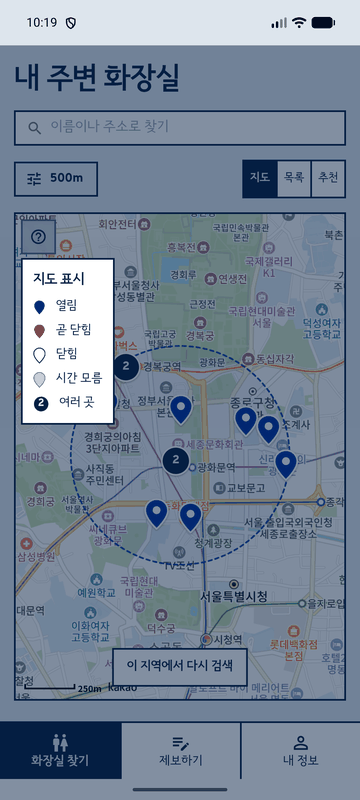
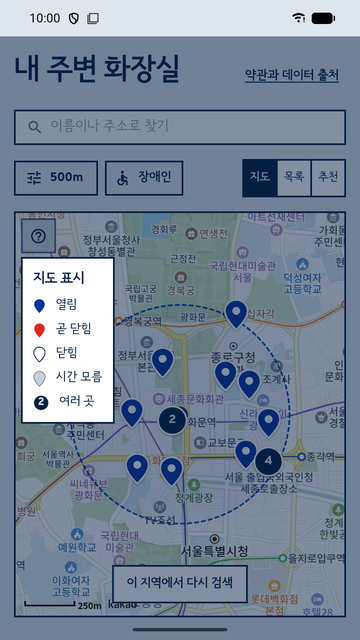
Docs: describe and screenshot the ratings-only launch build
README screenshots were from 2026-11-16 with the bottom nav, report
links and the blue server walking route, none of which the launch build
shows. Retake them on the production build (1080x1920, opening status at
10:00 KST), replace the recommended shot with the card rating, add the
terms and sources page, and say what the launch build hides and how to
turn it back on. Record the launch scope in the requirements and the
no-bottom-nav decision in the UI design doc. Add the store listing and
its screenshots (report screenshot dropped).

diff --git a/store/listing.md b/store/listing.md
@@ -1,0 +1,156 @@
+# Play 스토어 등록 정보 (2026-11-25 점검판)
+
+Play 글자 수 제한: 앱 이름 30자, 간단한 설명 80자, 자세한 설명 4,000자.
+
+2026-11-18 초안에서 코드와 운영 데이터에 맞춰 고친 것:
+- 화장실 수: "약 6만 곳" → "5만 곳이 넘는". 운영 스냅샷(`/api/toilets/snapshot`) 2026-11-25 기준 53,586곳.
+- 추천: "평점과 후기" → "평점과 거리". 출시 빌드는 회원 기능이 꺼져 있어(`VITE_ACCOUNTS` 기본 off) 댓글이 보이지 않는다.
+- 제보: 출시 빌드(Mashil-web `d2a5dcc`, 11-24)는 회원 기능과 함께 **제보 탭·정보 고치기 링크·제보 화면을 모두 숨긴다**. 설명에서 제보를 빼고, "이용자 제보로 바로잡아요"·"앱에서 알려 주세요"도 고쳤다. 제보 스크린샷은 지웠다.
+- 위치: 제보가 없으므로 위치는 기기 밖으로 나가지 않는다 (근처 찾기는 기기 안, 서버 도보 경로 꺼짐). "서버로 보내지 않아요" 문구를 그대로 쓸 수 있다.
+- 로그인: 첫 실행 로그인 화면도 이 커밋에서 없어진다. **운영 서버는 아직 11-20 버전이라 로그인 화면이 뜬다 (2026-11-25 에뮬레이터 확인). 배포 후 올린다.**
+- 방향 안내: 출시 빌드는 서버 도보 경로가 꺼져 있다(`VITE_WALK_ROUTE`). 직선 방향 안내만 적는다. README 의 파란 경로 화면은 쓰지 않는다.
+
+---
+
+## 한국어 (기본)
+
+### 앱 이름 (16자)
+마실 - 내 주변 화장실 찾기
+
+### 간단한 설명 (34자)
+지금 열려 있는 가까운 화장실을 찾아요. 전국 5만 곳 이상.
+
+### 자세한 설명
+
+급할 때, 가장 가까운 화장실이 지금 열려 있는지부터 알려 드려요.
+
+마실은 전국 공중화장실과 개방화장실 5만 곳이 넘는 곳을 지도와 목록으로 보여 주는 앱이에요. 행정안전부 공공데이터(LOCALDATA 공중화장실 정보)를 매일 받아 정리해요.
+
+■ 지금 열려 있는지 한눈에
+· 요일과 공휴일까지 따져서 "24시간", "22:00까지", "곧 닫힘", "닫힘"으로 보여 줘요.
+· 지도 핀의 모양과 색만 봐도 열림 상태를 알 수 있어요.
+· 닫기까지 남은 시간도 알려 드려요.
+
+■ 원하는 화장실만 골라서
+· 지금 열린 곳, 24시간 개방
+· 남자, 여자, 장애인, 어린이 시설
+· 검색 반경 500m부터 5km까지
+· 이름이나 주소로 검색 (두 글자부터 바로 찾아요)
+· 평점과 거리를 함께 본 "지금 가기 좋은 곳" 추천
+
+■ 가기 전에 확인하는 상세 정보
+· 요일별 개방 시간과 공휴일 개방 여부
+· 남녀 칸 수, 소변기 수, 장애인·어린이용 시설
+· 비상벨, 입구 CCTV, 기저귀 교환대
+· 주소 복사, 전화 걸기, 공유하기 (카카오톡 등)
+
+■ 가는 길
+· 앱 안에서 화장실 방향과 거리, 걷는 시간을 바로 확인
+· 카카오맵으로 도보·자동차 길찾기
+
+■ 별점으로 함께
+· 다녀온 화장실에 별점을 남겨 다른 사람에게 알려 주세요. 가입이나 로그인은 필요 없어요.
+
+■ 내 위치는 내 휴대폰 안에서만
+현재 위치는 휴대폰 안에서 가까운 화장실을 찾는 데만 쓰고, 서버로 보내거나 저장하지 않아요. 위치 권한을 허용하지 않아도 지도를 옮기거나 검색해서 쓸 수 있어요.
+
+■ 누구나 편하게
+· 한국어, English, 日本語, 简体中文, 繁體中文
+· 다크 모드, 태블릿과 가로 화면 지원
+· 화면 읽기(TalkBack) 지원
+
+화장실 정보는 공공데이터를 바탕으로 하며 실제와 다를 수 있어요. 틀린 정보를 발견하면 문의 이메일로 알려 주세요.
+
+---
+
+## English
+
+### App name (29 chars)
+Mashil: Find Restrooms Nearby
+
+### Short description (74 chars)
+Find the nearest restroom that's open now. Over 50,000 across South Korea.
+
+### Full description
+
+When you need one fast, Mashil shows the nearest restroom that's open right now.
+
+Mashil maps over 50,000 public and open-access restrooms across South Korea. The data comes from the Korean government's public restroom dataset (LOCALDATA), refreshed daily.
+
+■ Open now, at a glance
+· Opening hours by weekday and public holiday: "24 hours", "Open until 22:00", "Closing soon", "Closed".
+· Map pins show the status by shape and color.
+· See how long until it closes.
+
+■ Only the restrooms you need
+· Open now, open 24 hours
+· Men's, women's, accessible and children's facilities
+· Search radius from 500 m to 5 km
+· Search by name or address
+· "Good to go now" picks based on ratings and distance
+
+■ Check before you go
+· Opening hours for each day and holidays
+· Number of stalls and urinals, accessible and children's facilities
+· Emergency bell, entrance CCTV, diaper changing table
+· Copy the address, call, or share
+
+■ Getting there
+· See the direction, distance and walking time in the app
+· Walking or driving directions in KakaoMap
+
+■ Rate as you go
+· Leave a star rating for others. No sign-up or login needed.
+
+■ Your location stays on your phone
+Your location is only used on your phone to find nearby restrooms. It is never sent to or stored on our servers. Without location permission you can still move the map or search.
+
+■ For everyone
+· Korean, English, Japanese, Simplified and Traditional Chinese
+· Dark mode, tablet and landscape layouts
+· Screen reader (TalkBack) support
+
+Restroom information is based on public data and may differ from reality. If something is wrong, please let us know by email.
+
+---
+
+## Play 콘솔 설정
+
+| 항목 | 값 |
+|---|---|
+| 앱 카테고리 | 지도/내비게이션 (Maps & Navigation) |
+| 태그 | 지도, 생활 |
+| 연락처 이메일 | (정해 주세요. 약관의 문의 이메일과 같게) |
+| 웹사이트 | https://toilets.ironhiro.dev (선택) |
+| 개인정보처리방침 | https://toilets.ironhiro.dev/terms/Privacy |
+| 광고 포함 | 아니요 (광고 SDK가 들어가는 빌드부터 "예") |
+| 앱 액세스 권한 | 모든 기능을 로그인 없이 쓸 수 있음 (회원 기능 꺼짐) |
+| 타겟층 | 18세 이상 (아동 대상 아님. 13세 미만을 넣으면 가족 정책 심사가 붙는다) |
+
+### 콘텐츠 등급 설문
+- 출시 빌드는 댓글·제보가 꺼져 있어 이용자끼리 글을 주고받는 기능이 없다. 별점(숫자)만 있다.
+  → "사용자 간 상호작용/콘텐츠 공유": **아니요** 로 답해도 맞다. 회원·댓글을 켜는 빌드부터 "예"로 바꾼다.
+- 위치 공유(다른 사용자에게 내 위치 표시): 없음.
+
+### 데이터 보안 (Data safety) 초안
+Play 기준은 "기기 밖으로 나가면 수집"이다. 위치는 기기 밖으로 나가지 않으므로 **수집 안 함**. 회원·제보를 켜는 빌드부터 위치(제보의 "내 위치로 입력"), 사용자 생성 콘텐츠, 계정 정보를 추가한다.
+
+| 데이터 유형 | 수집 | 공유 | 선택/필수 | 목적 | 근거 |
+|---|---|---|---|---|---|
+| 앱 활동 > 앱 상호작용 | 예 | 아니요 | 선택 | 앱 기능 | 별점 |
+| 기기 또는 기타 ID | 예 | 아니요 | 선택 | 앱 기능, 사기 방지 | 별점용 무작위 기기 키(`X-Mashil-Device`, 서버에는 해시만). 광고 ID 아님 |
+| 앱 정보 및 성능 > 비정상 종료 로그, 진단 | 예 | 아니요 | 필수 | 분석(오류 해결) | Sentry. 서비스 제공업체 전송은 "공유"가 아님 |
+
+- 전송 중 암호화: 예 (HTTPS)
+- 데이터 삭제 요청 방법: 회원 기능이 꺼져 있어 계정이 없다. 별점 삭제는 문의 이메일로 받는다고 적는다.
+
+---
+
+## 출시 전 확인
+
+1. **운영 서버 배포 (완료 2026-11-26, `v2026.11.25.5`, 에뮬레이터 확인)**: 웹 `d2a5dcc`, 백엔드 `7e51af4` (둘 다 11-24). 배포 전 운영은 첫 화면이 로그인이고 별점에 로그인이 필요해 이 설명과 맞지 않는다. 배포 후 데이터 지운 앱으로 첫 화면·별점·탭 구성을 다시 확인한다.
+   - 회원·제보를 다시 켤 때는 제보의 "내 위치로 입력"이 좌표를 Kakao 와 서버로 보내므로, 처리방침·위치 정보 이용 안내(`Mashil-web/src/legal/documents.ts`)와 위치기반서비스 신고 여부를 먼저 다시 본다.
+2. **그래픽 이미지(1024×500)**: 아직 없다. 지도 화면 + 앱 이름 한 줄 구성으로 만든다.
+3. **고해상도 아이콘(512×512)**: `docs/07-ui-design.md` 앱 아이콘 사양으로 내보낸다.
+4. 스크린샷: `store/screenshots/ko/` 7장, 출시 빌드로 2026-11-26 다시 찍음 (1080×1920, 하단 탭 없음, 개방 상태는 오전 10시 기준). 순서 제안: 01 지도 → 03 상세 → 07 카드·별점 → 05 방향 안내 → 06 필터 → 02 목록 → 04 시간·시설. 첫 두 장이 "지금 열린 화장실"을 보여 줘야 설치 전환이 좋다.
+5. 연락처 이메일을 정하고 약관 문의 이메일과 맞춘다.

diff --git a/README.md b/README.md
@@ -4,19 +4,23 @@
 
 ## 주요 기능 (화장실 찾기)
 
-아래 화면은 Android 에뮬레이터에서 찍었다 (2026-11-16, 광화문 근처, 로컬 백엔드에 LOCALDATA 전국 데이터와 도보 도로망을 넣은 상태). 개방 상태는 찍은 시각 기준이다. 경로 데이터 출처: © OpenStreetMap contributors (ODbL), 서울특별시 도보 네트워크 (공공누리 1유형).
+아래 화면은 **출시 빌드**를 Android 에뮬레이터(1080×1920)에서 찍었다 (2026-11-26, 광화문 근처, 운영 데이터). 개방 상태는 오전 10시(KST) 기준이다: 밤에 찍으면 대부분 닫힘으로 나와서 촬영할 때만 페이지 시계를 10시로 고정했다.
+
+출시 빌드는 **별점만 있는 버전**이다 (Mashil-web `VITE_ACCOUNTS` off, 2026-11-24 결정). 로그인, 댓글, 제보, 내 정보 화면을 숨기고 하단 탭도 두지 않는다. 별점은 로그인 없이 기기마다 만든 무작위 키로 남긴다. 서버 도보 경로는 꺼져 있어 방향 안내는 일직선이다 (위치를 서버로 보내지 않기 위해). 숨긴 기능은 코드에 그대로 있고 `VITE_ACCOUNTS=on` 으로 다시 켠다.
 
 ### 지도와 목록
 
 | 지도 | 핀 모양 설명 | 겹친 핀 목록 |
 |:-:|:-:|:-:|
 | <img src="docs/screenshots/01-home-map.png" width="240" alt="홈 지도: 반경 원 안의 화장실 핀과 묶음 마커"> | <img src="docs/screenshots/02-legend.png" width="240" alt="지도의 ? 단추를 누르면 뜨는 핀 모양 설명"> | <img src="docs/screenshots/03-cluster-list.png" width="240" alt="묶음 마커를 누르면 뜨는 총 2곳 목록, 거리순과 추천순"> |
-| 내 위치 주변(기본 500m)의 화장실을 **핀 모양**으로 보여 준다. 글자 없이 모양과 색으로 개방 상태(열림·곧 닫힘·닫힘·모름)를 나타낸다 | 지도 왼쪽 위 반투명 **?** 단추를 누르면 핀 모양의 뜻이 뜬다 | 핀이 절반 넘게 겹치면 숫자가 적힌 **묶음 마커**가 된다. 누르면 그 화장실들을 **거리순·추천순**으로 보여 준다 |
+| 내 위치 주변(기본 500m)의 화장실을 **핀 모양**으로 보여 준다. 글자 없이 모양과 색으로 개방 상태(열림·곧 닫힘·닫힘·모름)를 나타낸다. 제목 옆에 **약관과 데이터 출처** | 지도 왼쪽 위 반투명 **?** 단추를 누르면 핀 모양의 뜻이 뜬다 | 핀이 절반 넘게 겹치면 숫자가 적힌 **묶음 마커**가 된다. 누르면 그 화장실들을 **거리순·추천순**으로 보여 준다 |
 
-| 화장실 정보 카드 | 목록 | 추천 |
+| 화장실 정보 카드 | 별점 | 목록 |
 |:-:|:-:|:-:|
-| <img src="docs/screenshots/04-card.png" width="240" alt="지도에서 고른 화장실의 정보 카드"> | <img src="docs/screenshots/05-list.png" width="240" alt="거리순 근처 안내판 목록"> | <img src="docs/screenshots/06-recommended.png" width="240" alt="지금 가기 좋은 곳 추천"> |
-| 핀을 고르면 거리, 시설, 주소, 영업시간, 전화와 함께 **카카오맵 길찾기 / 방향 안내 / 자세히 보기**가 뜬다. 오른쪽 위에 공유와 닫기 | 출발 안내판처럼 한 줄에 거리, 이름과 시설, 개방 상태 | 열린 곳 중에서 평점, 댓글이 받은 도움돼요, 거리를 함께 보고 고른 "지금 가기 좋은 곳" |
+| <img src="docs/screenshots/04-card.png" width="240" alt="지도에서 고른 화장실의 정보 카드"> | <img src="docs/screenshots/06-rating.png" width="240" alt="카드 아래 별점 다섯 개"> | <img src="docs/screenshots/05-list.png" width="240" alt="거리순 근처 안내판 목록"> |
+| 핀을 고르면 거리, 시설, 주소, 영업시간, 전화와 함께 **길찾기(카카오맵) / 방향 안내 / 자세히 보기 / 지도에 거리 표시**가 뜬다. 오른쪽 위에 공유와 닫기 | 카드 아래 **별점**. 로그인 없이 누르면 바로 "등록됨" | 출발 안내판처럼 한 줄에 거리, 이름과 시설, 개방 상태 |
+
+**추천** 보기는 열린 곳 중에서 평점과 거리를 함께 보고 "지금 가기 좋은 곳"을 고른다. 평점이 모이기 전에는 "아직 추천할 만큼 평점이 모이지 않았어요"와 가까운 순 보기 링크만 보여서 화면을 싣지 않았다.
 
 | 필터 |
 |:-:|
@@ -34,10 +38,17 @@
 
 | 걷는 중 | 도착 |
 |:-:|:-:|
-| <img src="docs/screenshots/10-guide.png" width="240" alt="방향 안내: 파란 실제 도보 경로와 지나온 길, 경로 끝에서 화장실까지 점선, 약 3분과 158m 남은 길"> | <img src="docs/screenshots/11-arrived.png" width="240" alt="방향 안내: 다 왔어요"> |
-| 서버가 찾은 **실제 도보 경로(파란 선)**와 지나온 길(회색), 경로 기준 남은 시간·거리. 서울은 서울시 도보 네트워크(횡단보도·육교 포함), 그 밖은 OpenStreetMap. 경로가 길에서 끝나면 화장실까지 점선으로 잇는다. 35m 넘게 벗어나면 다시 찾고, 경로를 못 받으면 일직선 안내로. 앱이 GPS 를 1초 간격으로 따라가고(`watchLocation` 브리지), 앱이 화면에서 내려가면 쉰다 | 20m 안에 들어오면 "다 왔어요"로 바뀌고 GPS 를 끈다. 카카오맵 길찾기(도보·차)는 늘 옆에 둔다 |
+| <img src="docs/screenshots/10-guide.png" width="240" alt="방향 안내: 내 위치에서 화장실까지 일직선 점선, 약 4분과 북서쪽 직선 거리 184m"> | <img src="docs/screenshots/11-arrived.png" width="240" alt="방향 안내: 다 왔어요, 지나온 길은 회색 선"> |
+| 내 위치에서 화장실까지 **일직선 점선**과 방위, 직선 거리, 걷는 시간 어림(직선 × 1.3, 4km/h). "실제 길은 지도를 보며 찾아 주세요" 안내. 앱이 GPS 를 1초 간격으로 따라가고(`watchLocation` 브리지), 앱이 화면에서 내려가면 쉰다. 서버 도보 경로(서울시 도보 네트워크·OpenStreetMap)는 구현돼 있지만 출시 빌드에서는 끈다 (`VITE_WALK_ROUTE`, 출발 위치를 서버로 보내야 해서) | 20m 안에 들어오면 "다 왔어요"로 바뀌고 GPS 를 끈다. 지나온 길은 회색 선. 카카오맵 길찾기(도보·차)는 늘 옆에 둔다 |
 
-이 밖에 웹에서: 이름·주소 검색, 평점과 댓글(도움돼요/아니에요, 신고), 새 화장실·정보 수정 제보, 내 정보와 설정(이름 바꾸기, 언어, 로그아웃, 회원 탈퇴), 관리자 화면.
+### 약관과 데이터 출처
+
+| 약관과 출처 |
+|:-:|
+| <img src="docs/screenshots/13-about.png" width="240" alt="약관과 출처: 이용약관, 개인정보 처리방침, 위치 정보 이용 안내, 데이터 출처"> |
+| 홈 제목 옆 링크로 연다. 이용약관·개인정보 처리방침·위치 정보 이용 안내, 데이터 출처와 글꼴. 틀린 정보는 문의 이메일로 받는다 (출시 빌드에는 제보 화면이 없다) |
+
+이 밖에: 이름·주소 검색. 관리자는 홈 제목을 7번 연달아 눌러 로그인하면 하단 탭과 관리자 화면이 나온다. 회원 기능을 켜면(`VITE_ACCOUNTS=on`) 소셜 로그인, 댓글(도움돼요/아니에요, 신고), 새 화장실·정보 수정 제보, 내 정보와 설정(이름 바꾸기, 언어, 로그아웃, 회원 탈퇴), 하단 탭(찾기·제보·내 정보)이 돌아온다.
 
 ## 문서
 

diff --git a/docs/07-ui-design.md b/docs/07-ui-design.md
@@ -98,7 +98,8 @@
 - **카드:** 지도에서 고른 장소. 맨 위 도구 줄은 "화장실 정보" + 공유·닫기(X). 그 아래 근처 안내판의 행과 같은 모양(거리, 이름과 시설, 상태)을 카드 폭 그대로 (닫기를 행 옆에 두면 상태 칸이 가운데로 밀리고 아래 선이 끊겨서 줄을 나눴다). 아래에 종류·거리·주소·영업시간·전화를 머리카락 선으로 나눈 2열 표로. 행동은 네 층: 카카오맵 길찾기(파랑, 전체 폭) / 방향 안내(테두리, 전체 폭) / 자세히 보기·지도에 거리 표시(테두리 버튼 두 칸) / 정보 고치기·없어졌어요(글자 링크).
 - **근처 안내판(board):** 출발 안내판처럼 한 행에 거리, 이름과 시설, 오른쪽 끝 상태. 앱의 다른 면과 같은 종이 위에 2px 잉크 테두리, 머리 줄만 잉크 띠. 거리는 잉크 숫자. 시그니처.
 - **칸(cells):** 테두리를 공유하는 정사각 칸. 요일 8칸, 시설 4칸.
-- **하단 탭:** 위쪽 앱 바와 왼쪽 서랍 메뉴 대신 **화장실 찾기(남녀 화장실 아이콘) / 제보하기 / 내 정보** 세 칸 (64px, 위 2px 잉크 선, 칸끼리 2px 선). 고른 칸은 잉크 채움 (파랑은 선택에 쓰지 않는다). 상세처럼 자기 하단 바가 있는 화면과 로그인·동의·약관에서는 숨긴다. 내용과 탭 사이는 어느 화면이든 24px (지도 칸도 같다). 앱은 웹뷰를 시스템 제스처 막대 밑까지 그리고(Flutter `SafeArea(bottom: false)`), 웹이 `env(safe-area-inset-bottom)` 만큼 탭 칸과 상세 하단 바를 올린다. 그래서 탭 바탕이 화면 맨 아래까지 이어진다. 내 정보에는 **회원 카드**(이름, 역할, 로그인 방법, 오른쪽에 "설정 >"; 누르면 설정 화면), **내 제보**(검토 중 / 반영됨 / 반영 안 됨과 운영팀 메모, `GET /api/me/change-requests`), **내 댓글**(가려진 댓글은 이유 표시, `GET /api/me/comments`), 광고 제거·후원 카드(회원만, "준비 중"), 제보 검토(관리자). 비회원은 로그인 안내와 언어. 목록은 3줄씩 보이고 "모두 보기". 제보 검토(관리자)는 표 대신 제보마다 카드 한 장: 종류·번호 머리 줄, 대상과 상태, 접수·내용 표, 검토 메모(제보자에게 보임)와 승인(파랑)·반려(테두리). 탭을 오가도 홈은 위치·반경·조건·지도/목록을 기억한다 (위치는 2분이 지나면 뒤에서 다시 잰다).
+- **하단 탭:** (출시 빌드에는 없음, 바로 아래 참고) 위쪽 앱 바와 왼쪽 서랍 메뉴 대신 **화장실 찾기(남녀 화장실 아이콘) / 제보하기 / 내 정보** 세 칸 (64px, 위 2px 잉크 선, 칸끼리 2px 선). 고른 칸은 잉크 채움 (파랑은 선택에 쓰지 않는다). 상세처럼 자기 하단 바가 있는 화면과 로그인·동의·약관에서는 숨긴다. 내용과 탭 사이는 어느 화면이든 24px (지도 칸도 같다). 앱은 웹뷰를 시스템 제스처 막대 밑까지 그리고(Flutter `SafeArea(bottom: false)`), 웹이 `env(safe-area-inset-bottom)` 만큼 탭 칸과 상세 하단 바를 올린다. 그래서 탭 바탕이 화면 맨 아래까지 이어진다. 내 정보에는 **회원 카드**(이름, 역할, 로그인 방법, 오른쪽에 "설정 >"; 누르면 설정 화면), **내 제보**(검토 중 / 반영됨 / 반영 안 됨과 운영팀 메모, `GET /api/me/change-requests`), **내 댓글**(가려진 댓글은 이유 표시, `GET /api/me/comments`), 광고 제거·후원 카드(회원만, "준비 중"), 제보 검토(관리자). 비회원은 로그인 안내와 언어. 목록은 3줄씩 보이고 "모두 보기". 제보 검토(관리자)는 표 대신 제보마다 카드 한 장: 종류·번호 머리 줄, 대상과 상태, 접수·내용 표, 검토 메모(제보자에게 보임)와 승인(파랑)·반려(테두리). 탭을 오가도 홈은 위치·반경·조건·지도/목록을 기억한다 (위치는 2분이 지나면 뒤에서 다시 잰다).
+  - **출시 빌드 (2026-11-26):** 회원 기능을 숨기면(`VITE_ACCOUNTS` off) 탭이 찾기 하나만 남아 하단 탭을 두지 않는다. 지도가 화면 아래까지 채우고, "약관과 데이터 출처"는 홈 제목 오른쪽 글자 단추로 옮겼다. 관리자 로그인은 홈 제목 7번 누르기 (Mashil-web `src/lib/adminTaps.ts`). 관리자로 로그인하면 하단 탭이 돌아온다.
 - **앱의 진행 막대:** 웹뷰 맨 위 가는 줄은 문서를 새로 불러올 때만 보인다. 웹 안의 화면 전환과 지도 타일·API 로딩에는 띄우지 않는다.
 
 ## 6. 앱 아이콘: 열린 문

diff --git a/docs/01-requirements.md b/docs/01-requirements.md
@@ -27,6 +27,8 @@
 | 운영 | 운영 환경 배포, 스토어 심사 대응, 법적 신고 | — |
 | 수익화 | 광고 제거·후원 카드 자리 (결제는 막아 둠, §4.9) | 광고 SDK, 인앱 결제, 앱 안 실제 도보 경로 (계획, §4.9) |
 
+> **첫 출시 범위 (2026-11-24 결정, 2026-11-26 운영 반영 `v2026.11.25.5`):** 별점만 있는 버전으로 낸다. 회원 기능(USR 로그인·설정, UGC 댓글·신고·차단, CR 제보)은 화면에서 숨기고(Mashil-web `VITE_ACCOUNTS` off) 서버 API 는 그대로 둔다. 별점은 로그인 없이 기기 키(`X-Mashil-Device`, 서버에는 해시만)로 남긴다. 하단 탭은 두지 않고 약관·출처는 홈 제목 옆, 관리자 로그인은 홈 제목 7번 누르기. 서버 도보 경로(MON-03)는 꺼 두어(`VITE_WALK_ROUTE`) 방향 안내는 일직선이고, 사용자 위치는 기기 밖으로 나가지 않는다. 회원 기능을 다시 켤 때는 제보의 "내 위치로 입력"이 좌표를 Kakao 와 서버로 보내므로 처리방침·위치 정보 이용 안내와 LEG-01 신고 여부를 먼저 다시 본다.
+
 ### 1.3 용어
 
 | 용어 | 정의 |
